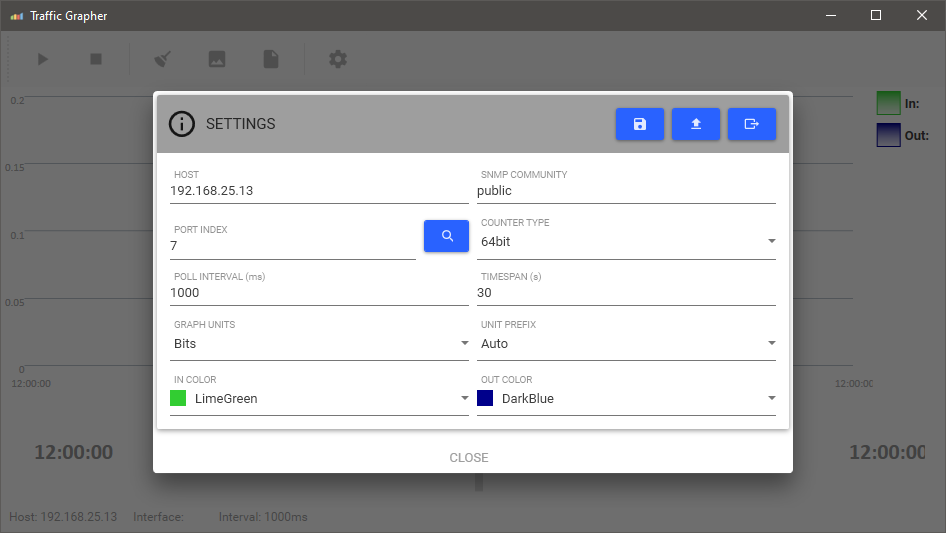
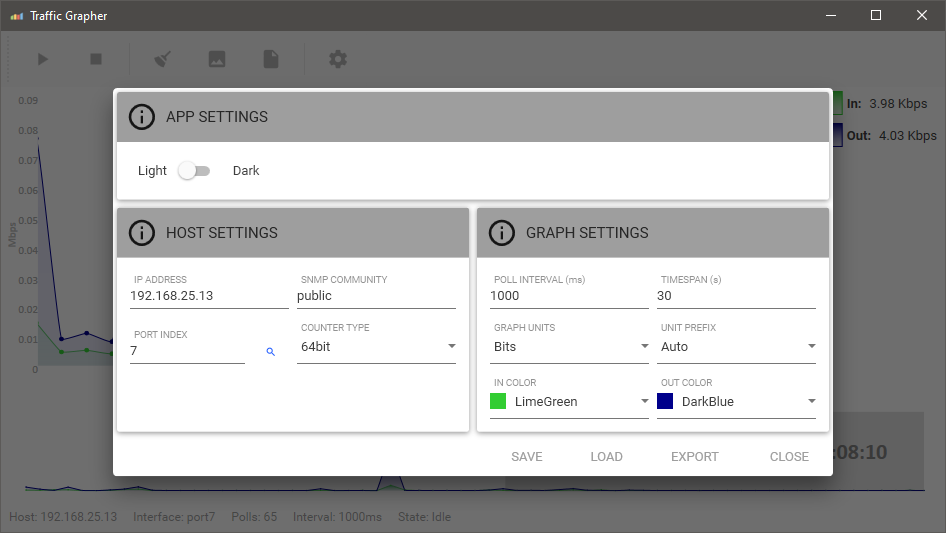
Updated screenshots

diff --git a/README.md b/README.md
@@ -28,15 +28,19 @@ TrafficGrapher was built using the following libraries, it is thanks to these to
 
 ## Screenshots
 
-Main view
+### Main view
 
 ![Main View](https://github.com/oMaN-Rod/TrafficGrapher/raw/master/web/images/main.png "Main View")
 
-Preferences
+### Dark Mode
+
+![Dark Mode](https://github.com/oMaN-Rod/TrafficGrapher/raw/master/web/images/dark.png "Dark Mode")
+
+### Preferences
 
 ![Menu](https://github.com/oMaN-Rod/TrafficGrapher/raw/master/web/images/menu.png "Menu")
 
-Interface Index Lookup
+### Interface Index Lookup
 
 ![Interface Lookup](https://github.com/oMaN-Rod/TrafficGrapher/raw/master/web/images/interfaces.png "Interface Lookup")
 
